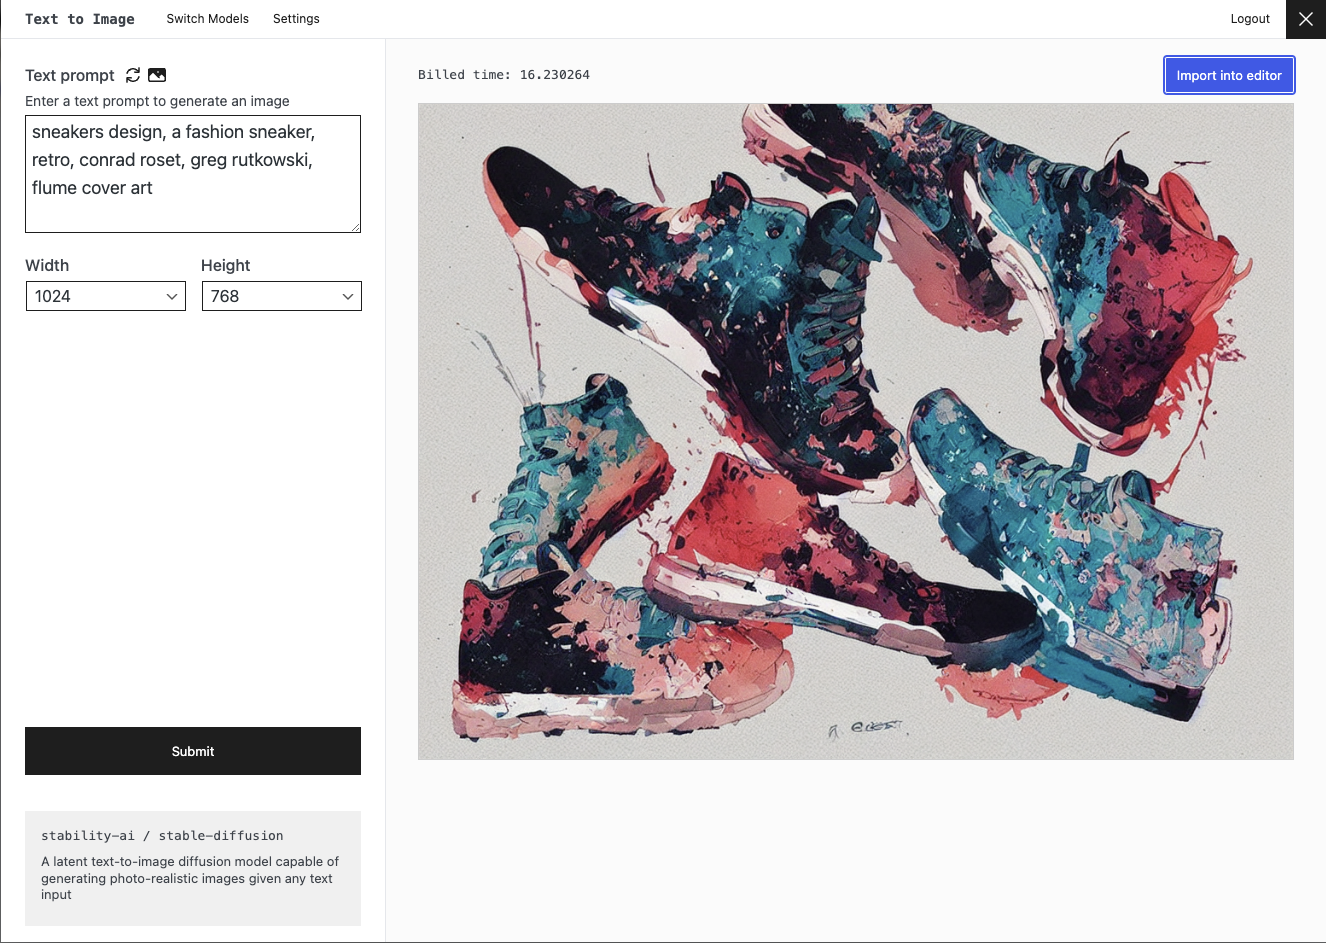
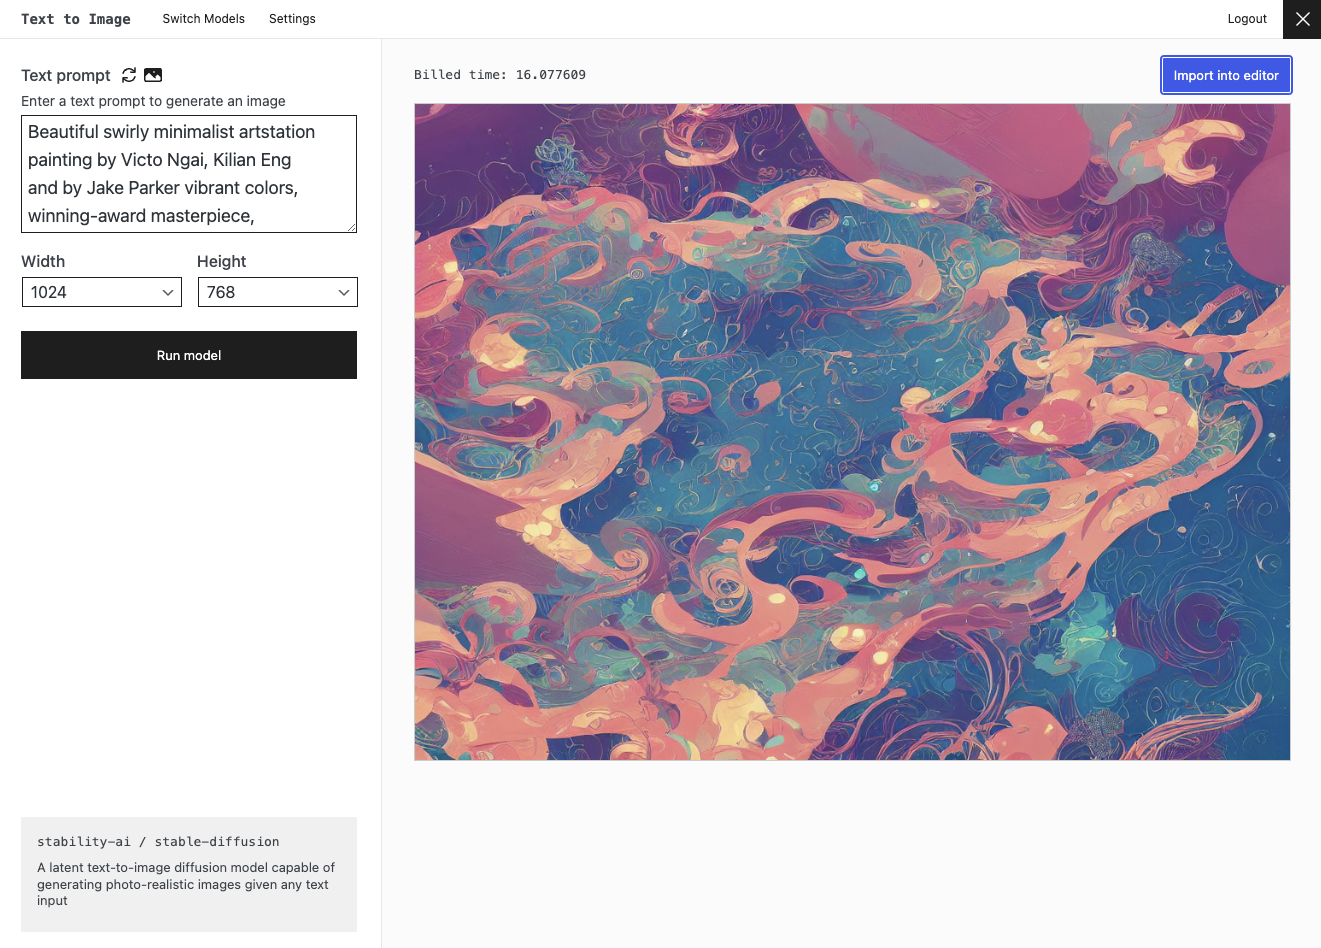
Reposition run button

diff --git a/src/components/UserInterface.tsx b/src/components/UserInterface.tsx
@@ -235,7 +235,7 @@ export const UserInferface = ({
             <div className="flex flex-col justify-between md:w-96 flex-shrink-0 overflow-y-scroll bg-white">
                 <form
                     ref={focusArea}
-                    className="flex flex-col justify-between gap-y-4 flex-shrink-0 p-6 pb-0 flex-grow"
+                    className="flex flex-col gap-y-6 flex-shrink-0 p-6 pb-0 flex-grow"
                     onSubmit={(e) => {
                         e.preventDefault();
                         handleSubmit();

diff --git a/src/components/inputs/PromptInput.tsx b/src/components/inputs/PromptInput.tsx
@@ -18,7 +18,7 @@ export const PromptInput = ({
     onChange,
 }: PromptSelectProps) => {
     const formItemClass = classNames(
-        'w-full text-lg rounded-none focus:outline-none focus:ring-wp ring-wp-theme-500 focus:shadow-none border pr-8',
+        'block w-full text-lg rounded-none focus:outline-none focus:ring-wp ring-wp-theme-500 focus:shadow-none border pr-8',
         {
             'bg-gray-200 border-gray-200': disabled,
             'border-gray-900': !disabled,

diff --git a/src/components/inputs/GoButton.tsx b/src/components/inputs/GoButton.tsx
@@ -61,7 +61,7 @@ export const GoButton = ({
                 type="submit"
                 onClick={onSubmit}
                 disabled={disabled}>
-                {__('Submit', 'stable-diffusion')}
+                {__('Run model', 'stable-diffusion')}
             </button>
         </motion.span>
     );
